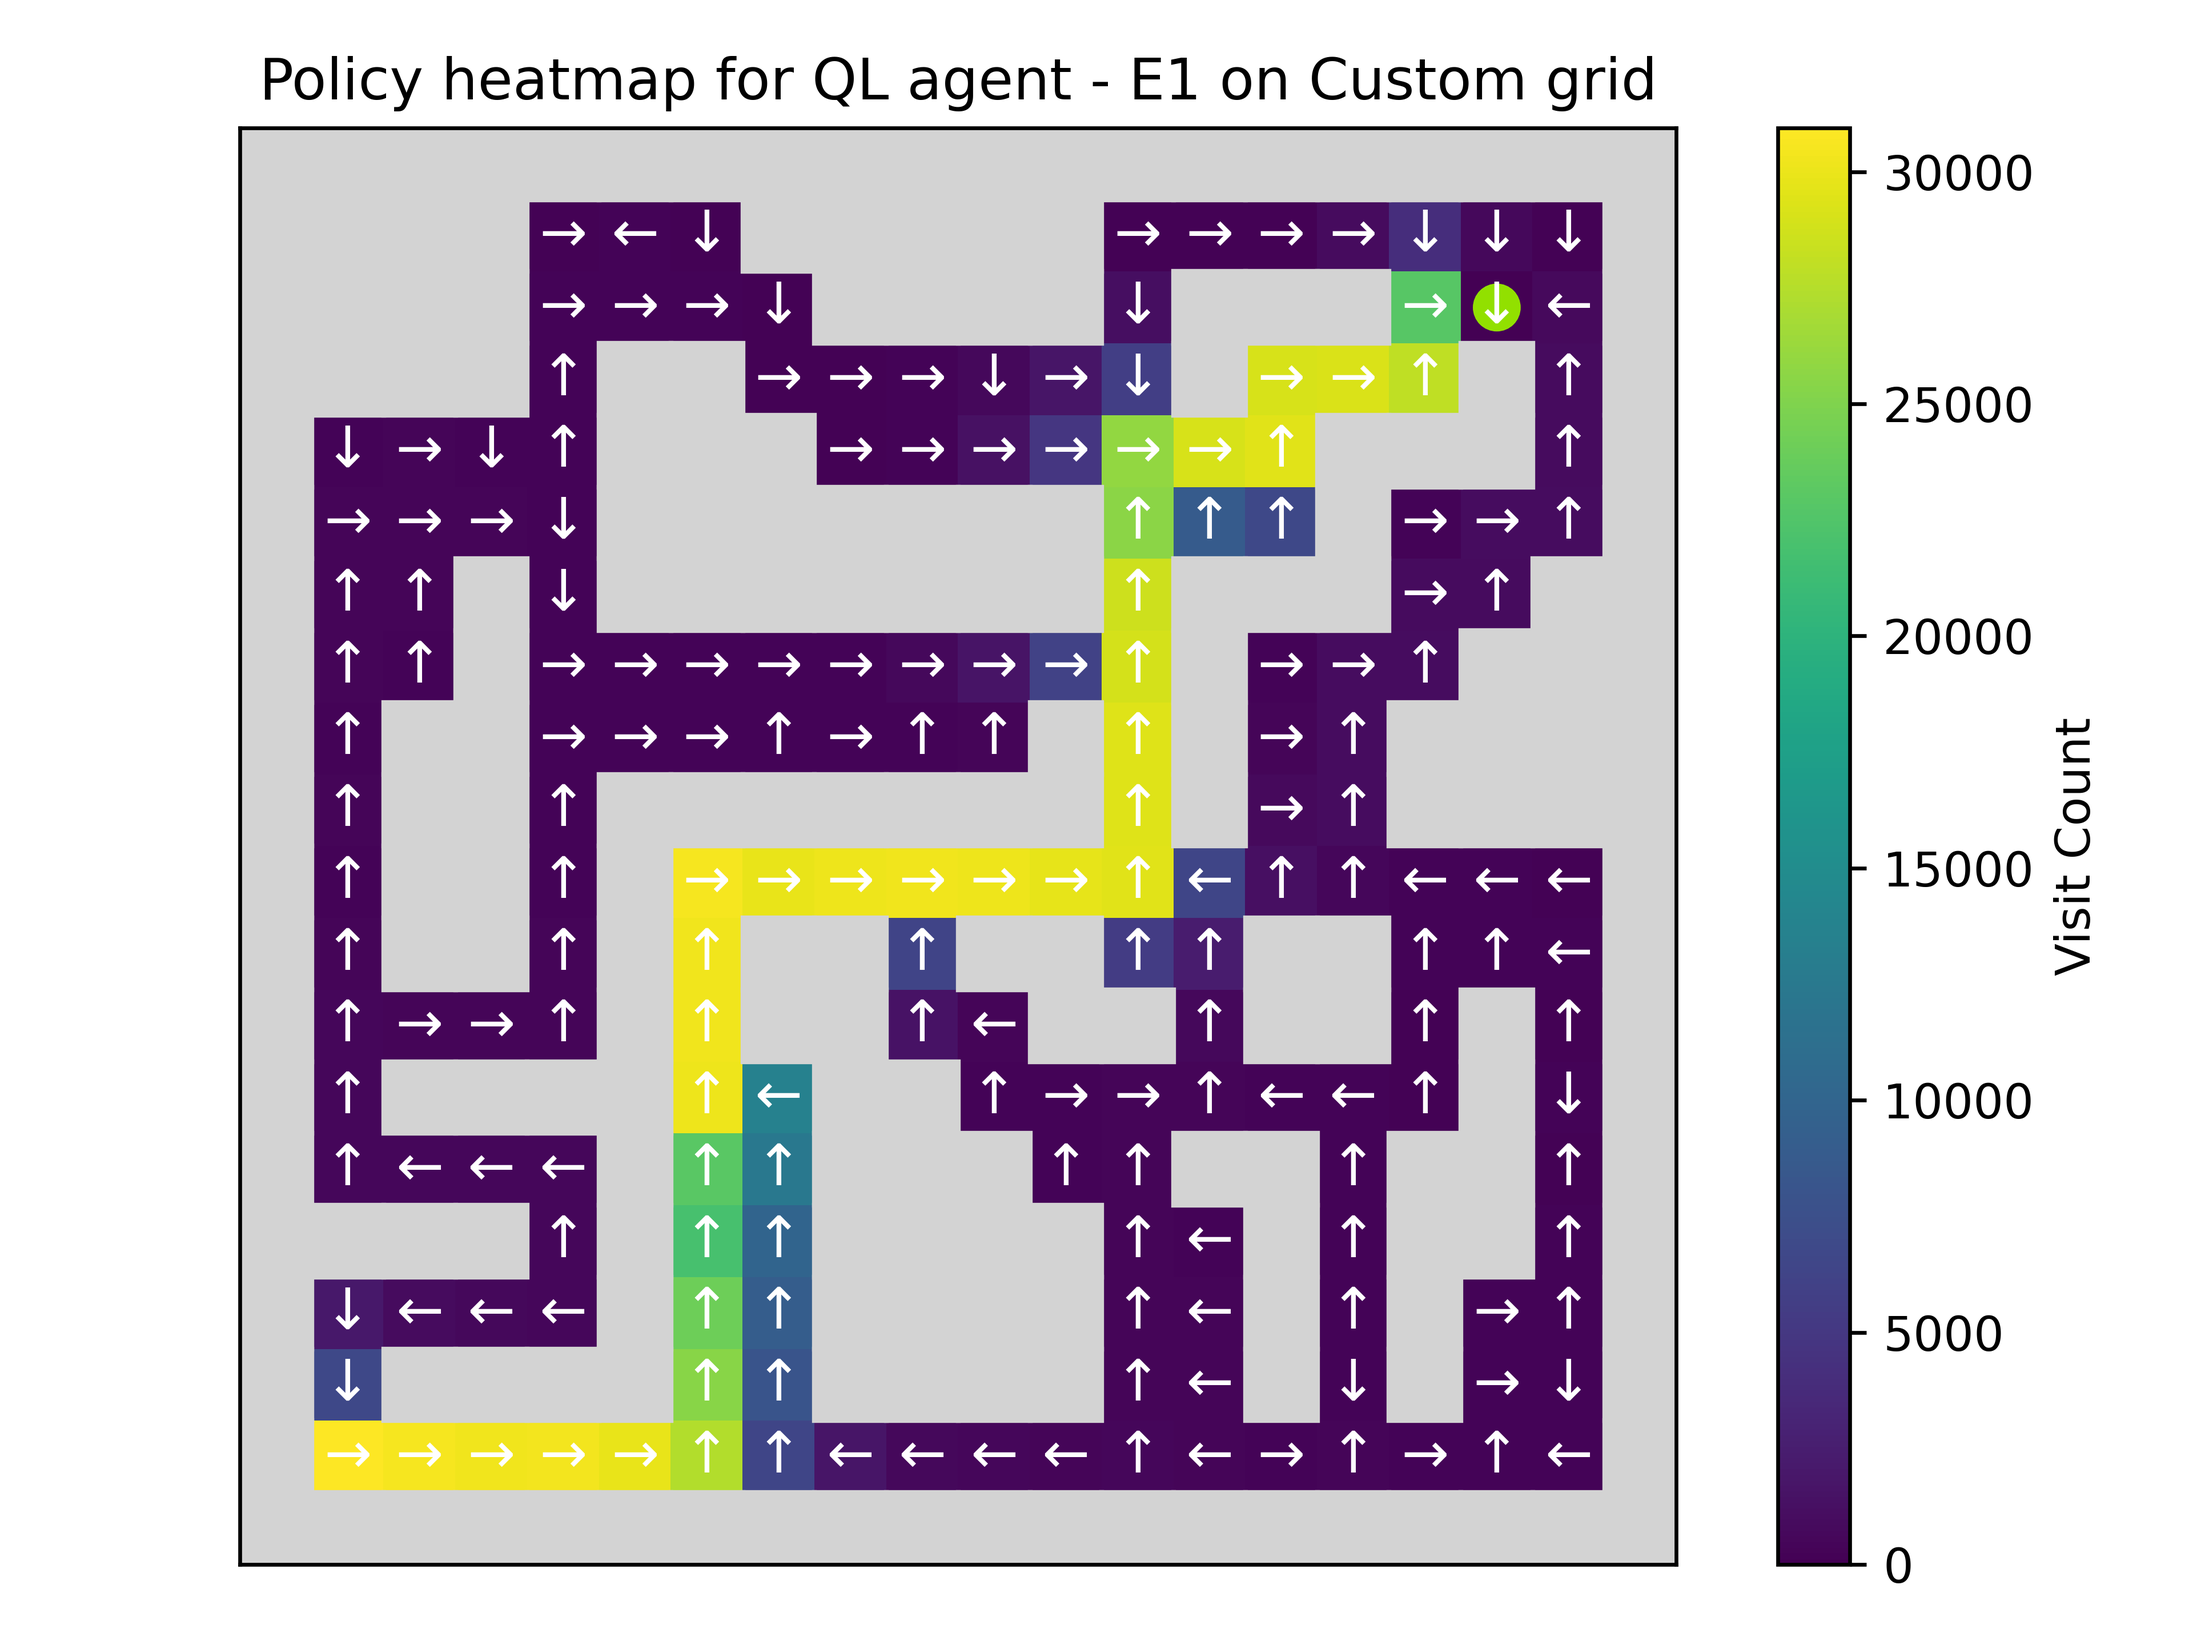
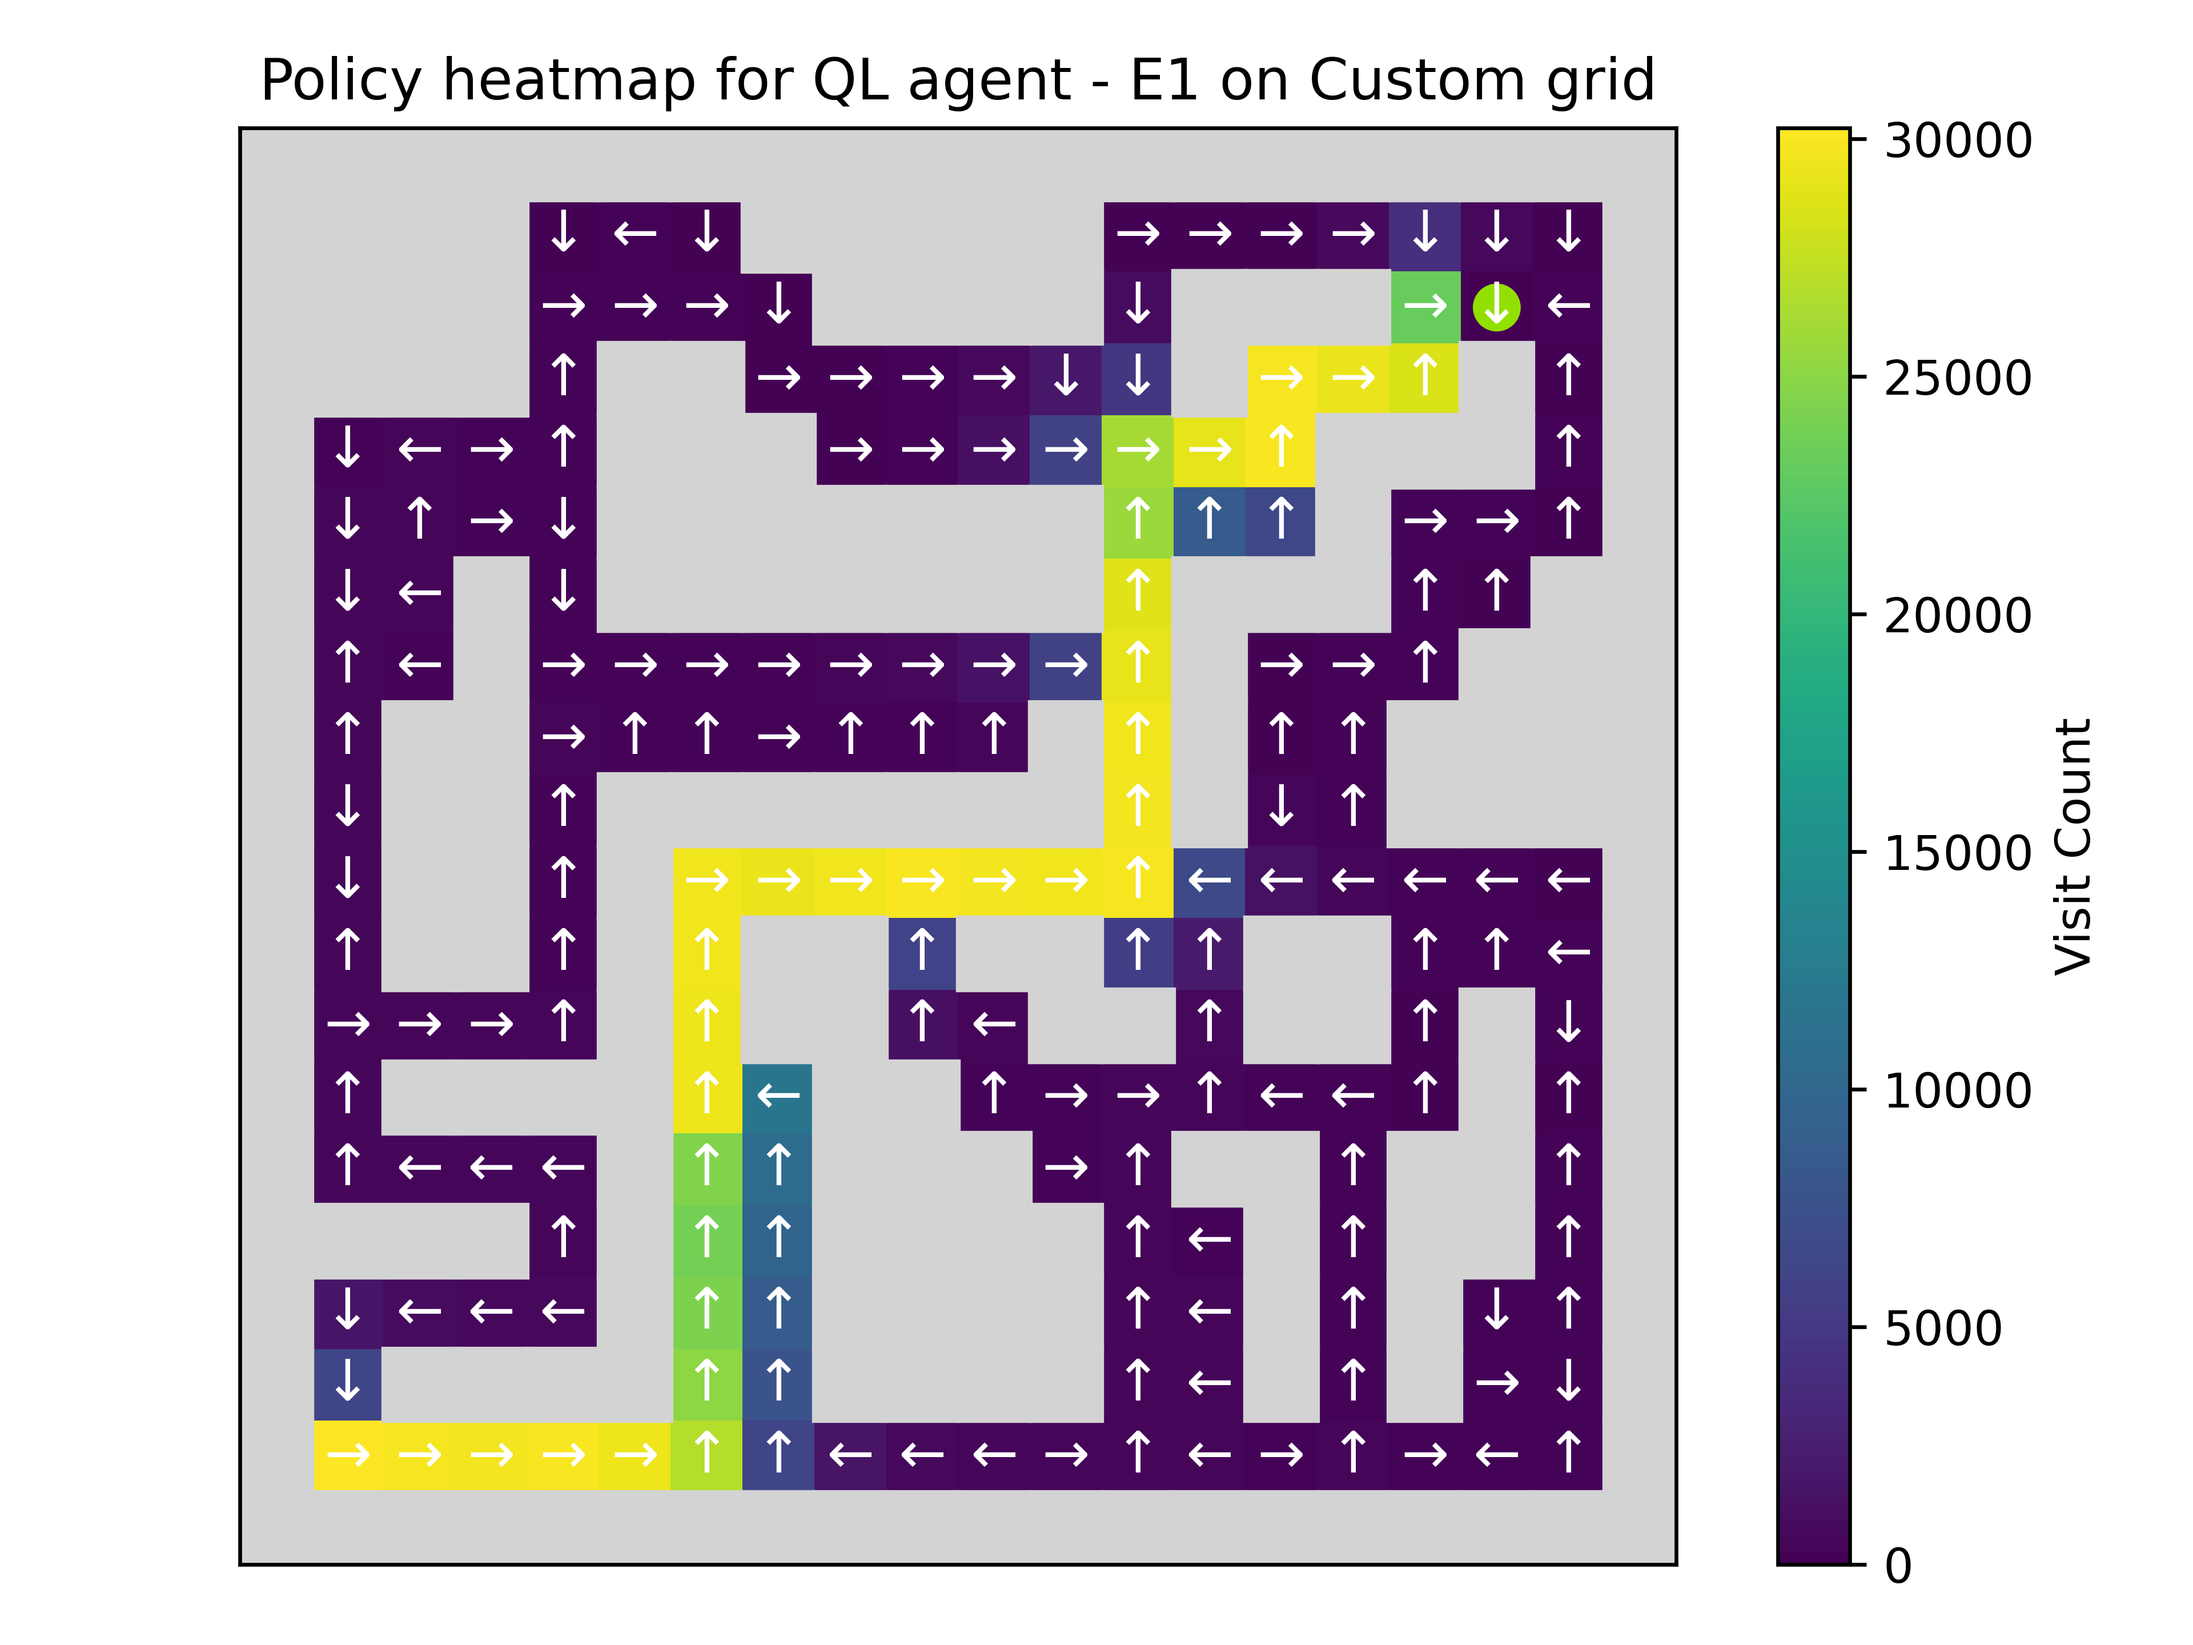
close images

diff --git a/evaluation_metrics.py b/evaluation_metrics.py
@@ -172,9 +172,9 @@ if __name__ == "__main__":
 
     run_evaluation(
         # Enironment-specific
-        grid="grid_configs/long_distance_narrow.npy", sigma=0.02, gamma=0.9, reward_func=custom_reward_function, agent_start_pos_col=1, agent_start_pos_row=18,
+        grid="grid_configs/long_distance_narrow.npy", sigma=0, gamma=0.9, reward_func=custom_reward_function, agent_start_pos_col=1, agent_start_pos_row=18,
         # Agent-specific
-        algorithm="q_learning", epsilon=1, epsilon_min=0.000001, delta=1e-6, alpha=0.1, episodes=15000, iters=500, early_stopping=-1,
+        algorithm="q_learning", epsilon=1, epsilon_min=0.0000001, delta=1e-6, alpha=0.1, episodes=15000, iters=500, early_stopping=-1,
         # General to experimental setup
         random_seed_full_experiment=0, number_of_repititions=2,
         # Saving results
